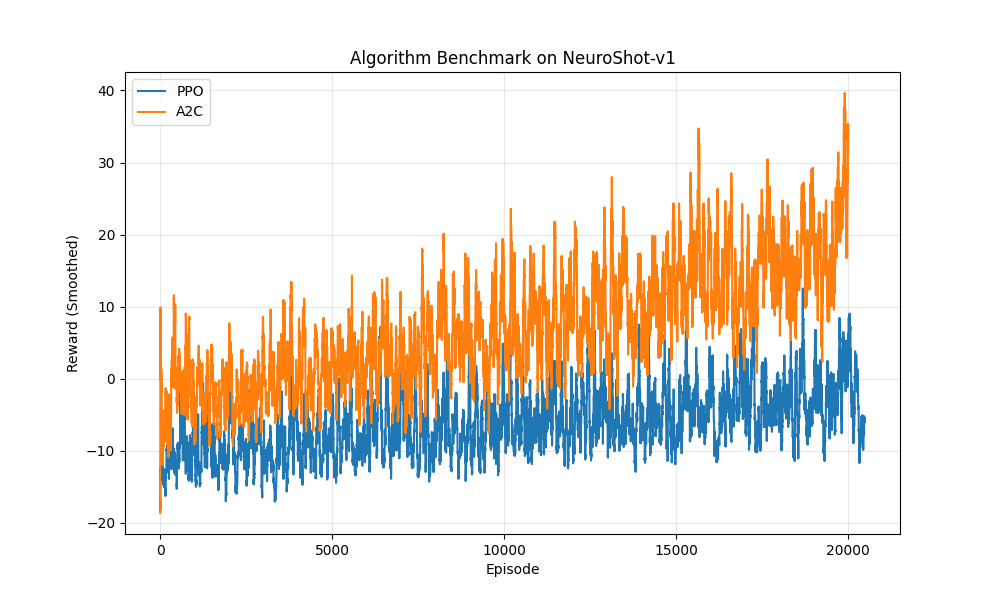
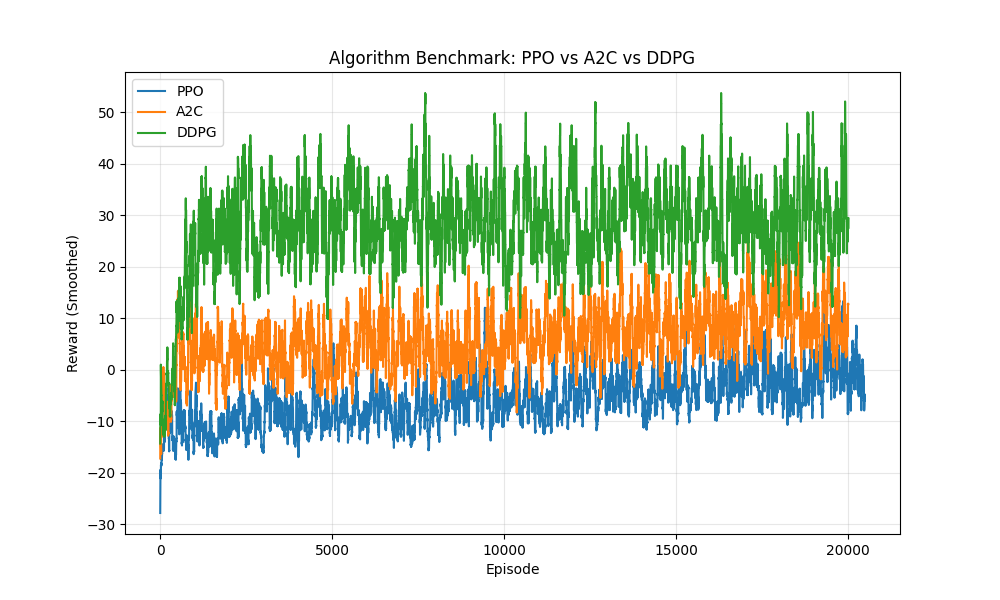
Add script to generate model accuracy heatmaps and include initial report images.

diff --git a/neuro_v1/heatmap_gen.py b/neuro_v1/heatmap_gen.py
@@ -53,13 +53,13 @@ def generate_heatmap(model_path, episodes=100):
     plt.axhline(0, color='gray', linestyle='--') # Zero wind line
     
     # Save
-    os.makedirs("reports", exist_ok=True)
-    plt.savefig("reports/accuracy_heatmap.png")
-    print("Heatmap saved to reports/accuracy_heatmap.png")
+    os.makedirs("final_reports", exist_ok=True)
+    plt.savefig("final_reports/accuracy_heatmap.png")
+    print("Heatmap saved to final_reports/accuracy_heatmap.png")
 
 if __name__ == "__main__":
     # Point this to your BEST model
-    model_path = "neuro_v1/models/neuroshot_v1_ppo_model.zip" 
+    model_path = os.path.join("neuro_v1_models", "models", "neuroshot_v1_ppo_model_1100000_steps.zip") 
     if os.path.exists(model_path):
         generate_heatmap(model_path, episodes=200)
     else:
